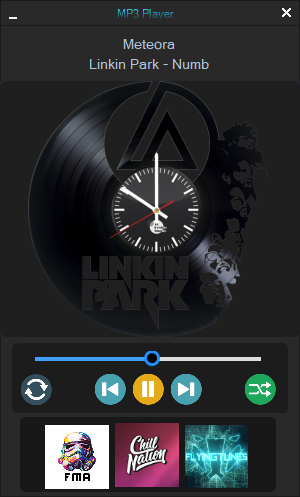
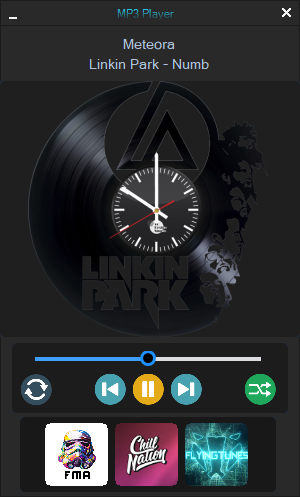
MP3 Player Changed

Changed region(s): [[0.57, 0.8451, 0.84, 0.996], [0.15, 0.8451, 0.39, 0.996], [0.45, 0.6942, 0.54, 0.7545]]

diff --git a/sample/ReaLTaiizor.Player/ReaLTaiizor.Player/Player.designer.cs b/sample/ReaLTaiizor.Player/ReaLTaiizor.Player/Player.designer.cs
@@ -122,7 +122,7 @@
             this.pictureBox9.BackColor = System.Drawing.Color.Transparent;
             this.pictureBox9.Cursor = System.Windows.Forms.Cursors.Hand;
             this.pictureBox9.Image = global::ReaLTaiizor.Player.Properties.Resources.Album3;
-            this.pictureBox9.Location = new System.Drawing.Point(165, 8);
+            this.pictureBox9.Location = new System.Drawing.Point(165, 6);
             this.pictureBox9.Name = "pictureBox9";
             this.pictureBox9.Size = new System.Drawing.Size(64, 64);
             this.pictureBox9.SizeMode = System.Windows.Forms.PictureBoxSizeMode.Zoom;
@@ -146,7 +146,7 @@
             this.pictureBox7.BackColor = System.Drawing.Color.Transparent;
             this.pictureBox7.Cursor = System.Windows.Forms.Cursors.Hand;
             this.pictureBox7.Image = global::ReaLTaiizor.Player.Properties.Resources.Album1;
-            this.pictureBox7.Location = new System.Drawing.Point(25, 8);
+            this.pictureBox7.Location = new System.Drawing.Point(25, 6);
             this.pictureBox7.Name = "pictureBox7";
             this.pictureBox7.Size = new System.Drawing.Size(64, 64);
             this.pictureBox7.SizeMode = System.Windows.Forms.PictureBoxSizeMode.Zoom;

diff --git a/sample/ReaLTaiizor.Player/ReaLTaiizor.Player/Properties/AssemblyInfo.cs b/sample/ReaLTaiizor.Player/ReaLTaiizor.Player/Properties/AssemblyInfo.cs
@@ -5,7 +5,7 @@ using System.Runtime.InteropServices;
 // denetlenir. Bütünleştirilmiş kod ile ilişkili bilgileri değiştirmek için
 // bu öznitelik değerlerini değiştirin.
 [assembly: AssemblyTitle("ReaLTaiizor Player")]
-[assembly: AssemblyDescription("ReaLTaiizor Player v1.0.1.2")]
+[assembly: AssemblyDescription("ReaLTaiizor Player v1.0.1.3")]
 [assembly: AssemblyConfiguration("")]
 [assembly: AssemblyCompany("Taiizor")]
 [assembly: AssemblyProduct("ReaLTaiizor Player")]
@@ -31,5 +31,5 @@ using System.Runtime.InteropServices;
 // Tüm değerleri belirtebilir veya varsayılan Derleme ve Düzeltme Numaralarını kullanmak için
 // aşağıda gösterildiği gibi '*' kullanabilirsiniz:
 // [assembly: AssemblyVersion("1.0.*")]
-[assembly: AssemblyVersion("1.0.1.2")]
-[assembly: AssemblyFileVersion("1.0.1.2")]
+[assembly: AssemblyVersion("1.0.1.3")]
+[assembly: AssemblyFileVersion("1.0.1.3")] 

diff --git a/sample/ReaLTaiizor.Player/ReaLTaiizor.Player/Player.cs b/sample/ReaLTaiizor.Player/ReaLTaiizor.Player/Player.cs
@@ -4,9 +4,16 @@ namespace ReaLTaiizor.Player
 {
     public partial class Player : Form
     {
+        private readonly Controls.ParrotObjectEllipse Ellipse1 = new();
+        private readonly Controls.ParrotObjectEllipse Ellipse2 = new();
+        private readonly Controls.ParrotObjectEllipse Ellipse3 = new();
+
         public Player()
         {
             InitializeComponent();
+            Ellipse1.EffectedControl = pictureBox7;
+            Ellipse2.EffectedControl = pictureBox8;
+            Ellipse3.EffectedControl = pictureBox9;
         }
 
         private void Timer1_Tick(object sender, System.EventArgs e)

diff --git a/sample/ReaLTaiizor.Player/ReaLTaiizor.Player/Program.cs b/sample/ReaLTaiizor.Player/ReaLTaiizor.Player/Program.cs
@@ -12,7 +12,7 @@ namespace ReaLTaiizor.Player
         private static void Main()
         {
             Application.EnableVisualStyles();
-#if NETCOREAPP3_1 || NET5_0 || NET6_0
+#if NETCOREAPP3_1 || NET5_0 || NET6_0 || NET7_0
             Application.SetHighDpiMode(HighDpiMode.SystemAware);
 #endif
             Application.SetCompatibleTextRenderingDefault(false);
